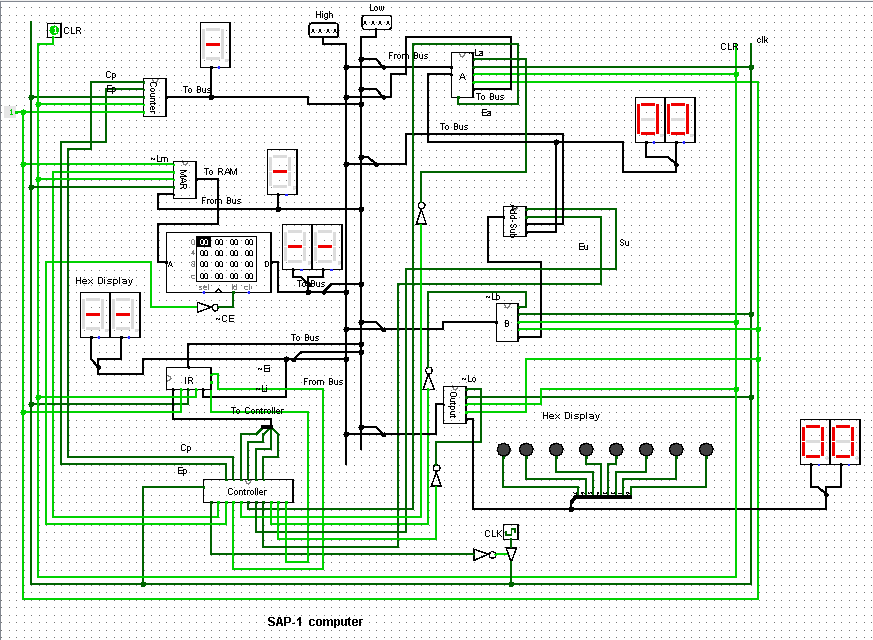
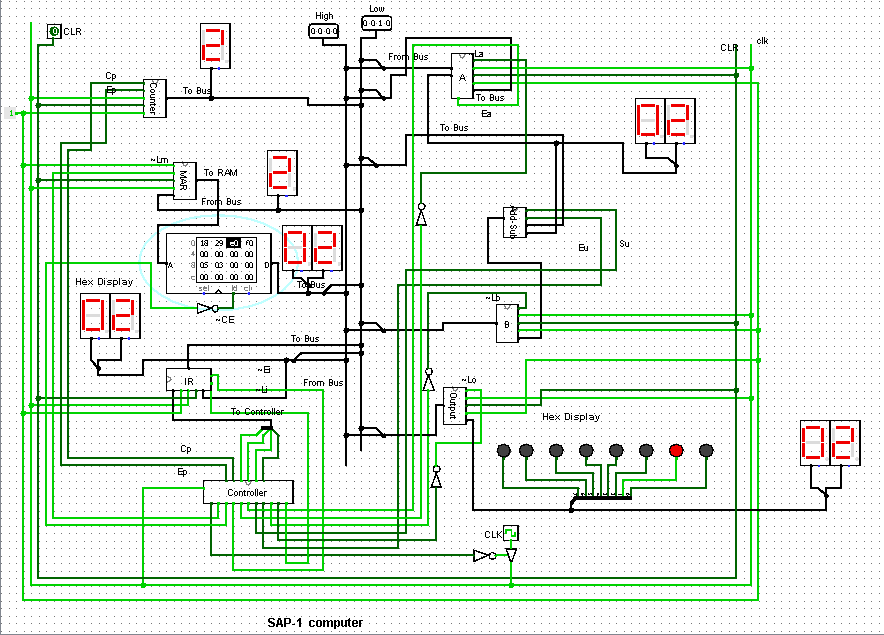
final Update README with processor architecture

Changed region(s): [[0.0, 0.0, 1.0, 1.0]]

diff --git a/README.md b/README.md
@@ -1,6 +1,6 @@
 # SAP-1 Computer
 
-A hardware implementation of the **SAP-1 (Simple-As-Possible 1)** processor architecture, built and simulated in [Logisim Evolution](https://github.com/logisim-evolution/logisim-evolution). SAP-1 is a classic educational CPU design that demonstrates how a computer fetches, decodes, and executes instructions using only basic digital logic — registers, an ALU, a bus, and a control unit.
+A hardware implementation of the **SAP-1 (Simple-As-Possible 1)** processor architecture, built and simulated in Logisim. SAP-1 is a simple  CPU design that demonstrates how a computer fetches, decodes, and executes instructions using only basic digital logic registers, an ALU, a bus, and a control unit.
 
 ## Complete Processor
 
@@ -54,7 +54,7 @@ A 4-bit synchronous counter that holds the address of the next instruction. On e
   <img src="images/Memory%20Adder%20Register%20.png" width="600">
 </p>
 
-A simple 4-bit latch, not a tri-state register — it has only one job, so it never needs to be disconnected from RAM. When `Lm` is asserted, it captures the address currently on the bus (from the Program Counter or the operand field of an instruction) and holds it permanently on RAM's address lines, selecting which memory word is being read.
+A simple 4-bit latch, not a tri-state register — it has only one work, so it never needs to be disconnected from RAM. When `Lm` is asserted, it captures the address currently on the bus (from the Program Counter or the operand field of an instruction) and holds it permanently on RAM's address lines, selecting which memory word is being read.
 
 ### 3. Instruction Register (IR)
 